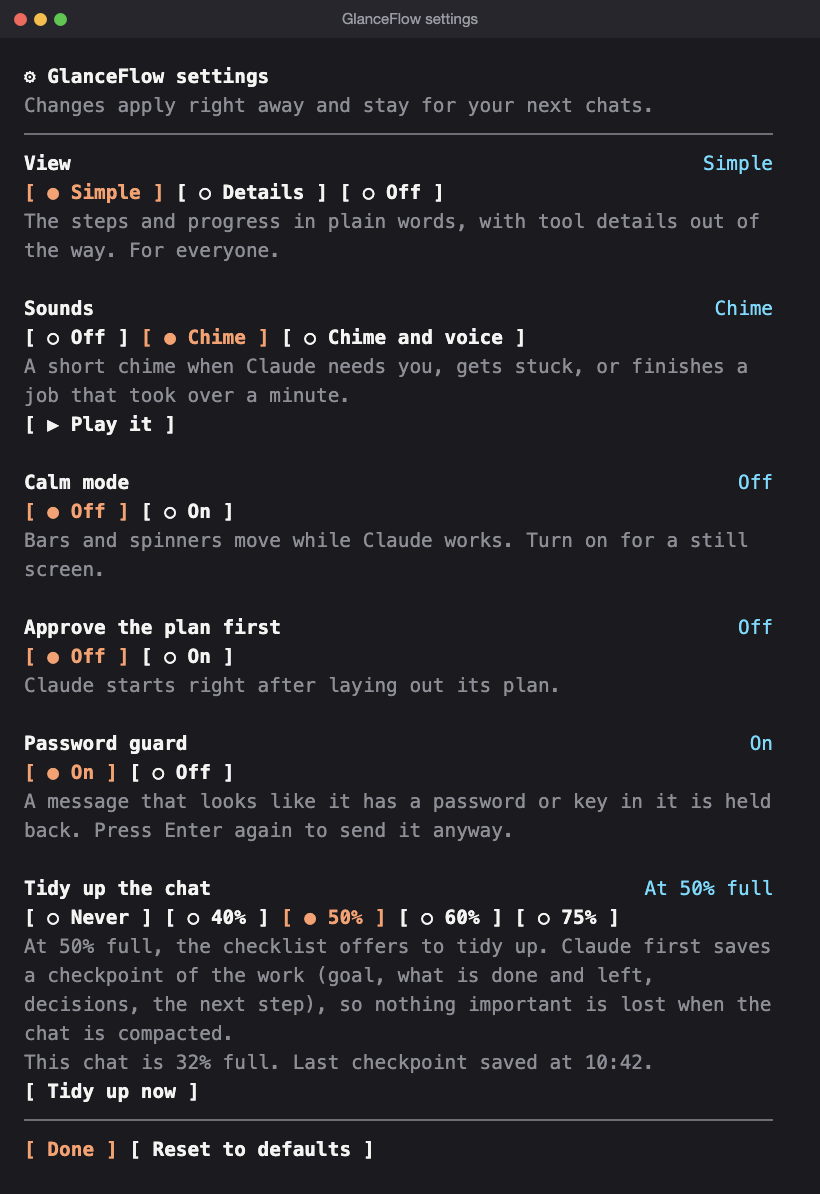
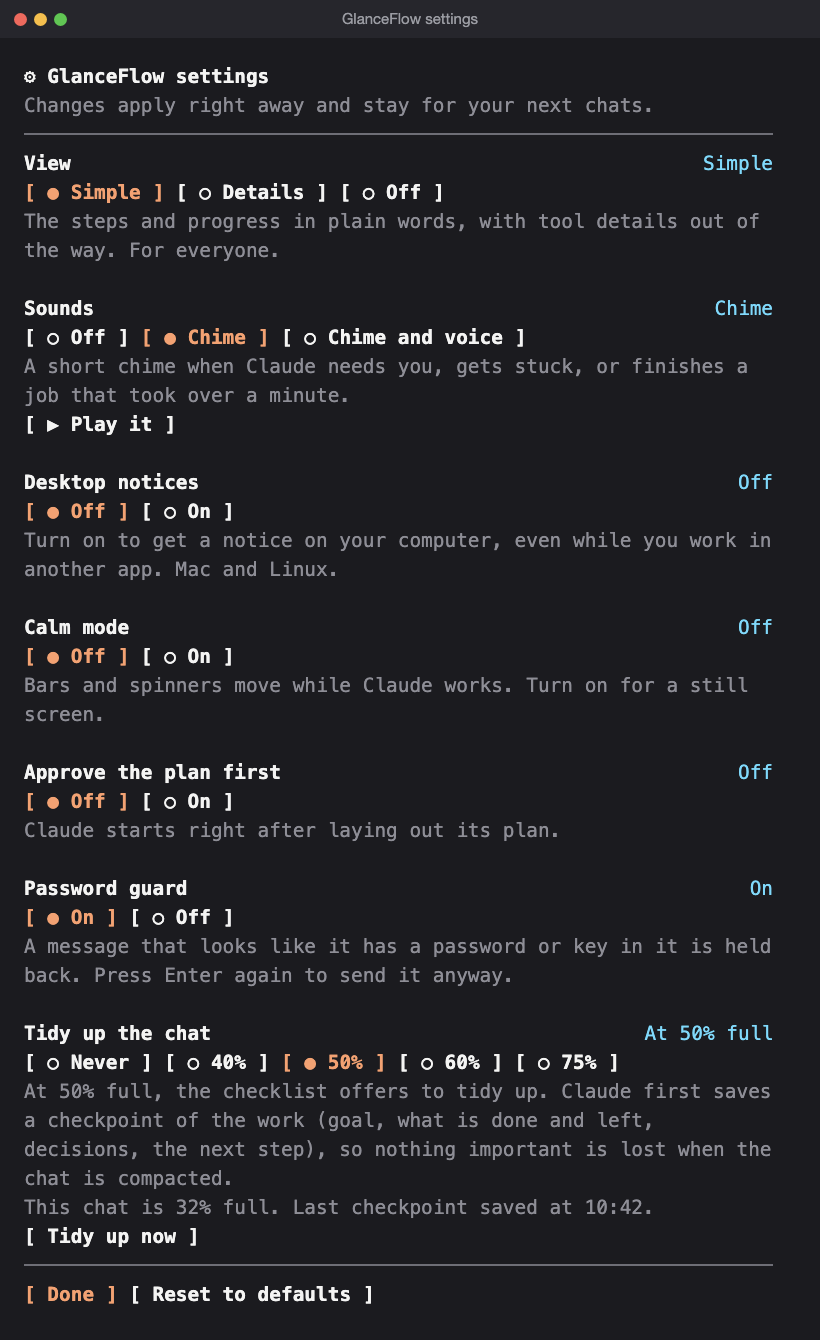
GlanceFlow 0.14.0: desktop notices when Claude needs you
An optional notice from the computer itself (macOS, Linux) when Claude
needs you, gets stuck, or finishes a job that took over a minute, with
the reason in it. Off by default; turn it on in Settings or with
/glanceflow notify on.

diff --git a/glanceflow/hooks/glance.tsx b/glanceflow/hooks/glance.tsx
@@ -47,6 +47,7 @@ const SOUND_KEY = 'glanceSound'
 const CALM_KEY = 'glanceCalm'
 const GUARD_KEY = 'glanceGuard'
 const APPROVE_KEY = 'glanceApprove'
+const NOTICE_KEY = 'glanceNotice'
 const HANDOFF_KEY = 'lastHandoff'
 const MAX_NAME = 40
 // Below this width the mode button drops the name; below METER_MIN_COLUMNS the bars go, so step names keep their room.
@@ -90,6 +91,7 @@ const soundAtom = atom({ plugin: 'glanceflow', key: 'soundMode' } as const, 'off
 const calmAtom = atom({ plugin: 'glanceflow', key: 'isCalm' } as const, false)
 const guardAtom = atom({ plugin: 'glanceflow', key: 'isGuarded' } as const, true)
 const approveAtom = atom({ plugin: 'glanceflow', key: 'approvePlan' } as const, false)
+const noticeAtom = atom({ plugin: 'glanceflow', key: 'isNoticing' } as const, false)
 const tidyAtAtom = atom({ plugin: 'glanceflow', key: 'tidyAt' } as const, TIDY_AT_DEFAULT)
 const checkpointAtom = atom({ plugin: 'glanceflow', key: 'checkpointAt' } as const, null)
 const historyAtom = atom({ plugin: 'glanceflow', key: 'historyView' } as const, null)
@@ -589,6 +591,29 @@ const ALERTS: Partial<Record<GlancePhase, { asset: string; words: string }>> = {
   done: { asset: 'sounds/done.wav', words: 'All done' },
 }
 
+/** A desktop notice through the computer's own notifications: macOS first, then Linux. The text goes in as arguments, never as script. */
+const showNotice = async ($: $, title: string, body: string) => {
+  const script = ['-e', 'on run argv', '-e', 'display notification (item 2 of argv) with title (item 1 of argv)', '-e', 'end run']
+  try {
+    await $.process.run(['osascript', ...script, title, body])
+  } catch {
+    // No osascript: not a Mac. notify-send is Linux's; elsewhere the band still shows it.
+    await $.process.run(['notify-send', '--app-name=Claude Code', title, body]).catch(() => undefined)
+  }
+}
+
+/** What the notice says under its title: why Claude waits or is stuck, or the job's name. */
+const noticeBody = (list: GlanceChecklist) =>
+  (list.phase === 'needsYou' ? list.needsYouReason : list.phase === 'stuck' ? list.stuckReason : null) ?? list.title
+
+/** A desktop notice when Claude needs you, gets stuck or finishes a long job, as for the sounds. */
+const noticeFor = async ($: $, list: GlanceChecklist) => {
+  const alert = ALERTS[list.phase]
+  if (!alert || !(await read($, noticeAtom)) || !(await read($, enabledAtom))) return
+  if (list.phase === 'done' && (isBusy(list) || (list.finishedAt ?? (await now($))) - list.startedAt < LONG_JOB_MS)) return
+  await showNotice($, alert.words, noticeBody(list))
+}
+
 /** A short sound (and, in voice mode, a few words) when Claude needs you, gets stuck or finishes a long job. */
 const alertFor = async ($: $, list: GlanceChecklist) => {
   const alert = ALERTS[list.phase]
@@ -613,7 +638,10 @@ const change = async ($: $, fn: (list: GlanceChecklist) => GlanceChecklist | nul
     return changed ? { ...changed, tasks: stampTimes(changed.tasks, at) } : changed
   })
   syncTicker($, next)
-  if (next !== null && next.phase !== before.phase) void alertFor($, next)
+  if (next !== null && next.phase !== before.phase) {
+    void alertFor($, next)
+    void noticeFor($, next)
+  }
 
   return next
 }
@@ -1029,6 +1057,13 @@ const setCalm = async ($: $, isOn: boolean) => {
   syncTicker($, await read($, checklistAtom))
 }
 
+/** Desktop notices: on shows one when Claude needs you, gets stuck or finishes a long job. A sample shows at once. */
+const setNotice = async ($: $, isOn: boolean) => {
+  await update($, noticeAtom, () => isOn)
+  await $.store.set(NOTICE_KEY, isOn)
+  if (isOn) void showNotice($, 'Claude needs you', 'This is how GlanceFlow will tell you.')
+}
+
 /** The password guard: on holds back a message that looks like it has a password or key in it. */
 const setGuard = async ($: $, isOn: boolean) => {
   await update($, guardAtom, () => isOn)
@@ -1067,10 +1102,11 @@ const alertSample = async ($: $, mode: 'off' | 'chime' | 'voice') => {
   if (mode === 'voice') await $.audio.speak('Claude needs you').catch(() => undefined)
 }
 
-/** Back to how GlanceFlow starts: Simple, no sounds, calm off, password guard on, no plan approval, tidy up at 50%. */
+/** Back to how GlanceFlow starts: Simple, no sounds or notices, calm off, password guard on, no plan approval, tidy up at 50%. */
 const resetSettings = async ($: $) => {
   await setView($, 'simple')
   await setSound($, 'off')
+  await setNotice($, false)
   await setCalm($, false)
   await setGuard($, true)
   await setApprove($, false)
@@ -1114,7 +1150,7 @@ const adoptGlanceStore = async ($: $) => {
   try {
     const config = (await $.env.get('CLAUDE_CONFIG_DIR')) ?? `${await $.env.get('HOME')}/.claude`
     const dir = `${config}/plugins/store`
-    const settings = new Set([STORE_KEY, DETAIL_KEY, SOUND_KEY, CALM_KEY, GUARD_KEY, APPROVE_KEY])
+    const settings = new Set([STORE_KEY, DETAIL_KEY, SOUND_KEY, CALM_KEY, GUARD_KEY, APPROVE_KEY, NOTICE_KEY])
     const mine = new Set(await $.store.keys())
     for (const file of await $.fs.list(dir)) {
       if (!/^glance_.*\.json$/.test(file.name)) {
@@ -1155,6 +1191,8 @@ export function registerGlance(on: On): void {
     await update($, guardAtom, () => isGuarded)
     const approves = (await $.store.get(APPROVE_KEY)) === true
     await update($, approveAtom, () => approves)
+    const isNoticing = (await $.store.get(NOTICE_KEY)) === true
+    await update($, noticeAtom, () => isNoticing)
     const tidyAt = await $.store.get(TIDY_KEY)
     await update($, tidyAtAtom, () => (typeof tidyAt === 'number' ? tidyAt : TIDY_AT_DEFAULT))
     const saved = (await $.store.get(CHECKPOINT_KEY)) as { sessionId?: string; at?: number } | undefined
@@ -1206,7 +1244,7 @@ export function registerGlance(on: On): void {
     await $.command.register({
       name: 'glanceflow',
       description:
-        'GlanceFlow: /glanceflow on|off, details on|off, sound on|voice|off, calm on|off, guard on|off, approve on|off, pause, continue, plan, settings, tidy [at N|off], history [yesterday|YYYY-MM-DD], handoff',
+        'GlanceFlow: /glanceflow on|off, details on|off, sound on|voice|off, notify on|off, calm on|off, guard on|off, approve on|off, pause, continue, plan, settings, tidy [at N|off], history [yesterday|YYYY-MM-DD], handoff',
     })
     // A reload drops the module's timers; pick the animation back up.
     syncTicker($, await read($, checklistAtom))
@@ -1243,6 +1281,16 @@ export function registerGlance(on: On): void {
         text: isOn
           ? 'The password guard is on: a message that looks like it has a password or key in it is held back.'
           : 'The password guard is off: every message is sent as you write it.',
+      }
+    }
+    if (arg.startsWith('notify')) {
+      const choice = arg.slice('notify'.length).trim()
+      const isOn = choice === 'on' ? true : choice === 'off' ? false : !(await read($, noticeAtom))
+      await setNotice($, isOn)
+      return {
+        text: isOn
+          ? 'Desktop notices are on: your computer tells you when Claude needs you, gets stuck or finishes a long job.'
+          : 'Desktop notices are off.',
       }
     }
     if (arg.startsWith('approve')) {
@@ -1785,6 +1833,7 @@ export function registerGlance(on: On): void {
     const view = !isEnabled ? 'off' : await read($, detailAtom)
     const sound = await read($, soundAtom)
     const isCalm = await read($, calmAtom)
+    const isNoticing = await read($, noticeAtom)
     const isGuarded = await read($, guardAtom)
     const approves = await read($, approveAtom)
     const tidyAt = await read($, tidyAtAtom)
@@ -1860,6 +1909,15 @@ export function registerGlance(on: On): void {
               <Button key="sound-test" label="▶ Play it" onPress={() => alertSample($, sound)} />
             </Box>
           ),
+        )}
+        {group(
+          'notice',
+          'Desktop notices',
+          isNoticing ? 'On' : 'Off',
+          choice('notice', [['off', 'Off'], ['on', 'On']], isNoticing ? 'on' : 'off', value => setNotice($, value === 'on')),
+          isNoticing
+            ? 'A notice on your computer when Claude needs you, gets stuck, or finishes a job that took over a minute.'
+            : 'Turn on to get a notice on your computer, even while you work in another app. Mac and Linux.',
         )}
         {group(
           'calm',

diff --git a/glanceflow/tests/glance.test.ts b/glanceflow/tests/glance.test.ts
@@ -1209,6 +1209,52 @@ test('voice mode also says it in a few words', async ($, on) => {
   expect(heard).toEqual(['sounds/needs-you.wav', 'say: Claude needs you'])
 })
 
+test('desktop notices are off until turned on; then the computer says why Claude needs you', async ($, on) => {
+  const { clock, heard } = soundWorld(on)
+  const shown: string[][] = []
+  on('process.run', (_, e) => {
+    const argv = (e as { argv: readonly string[] }).argv
+    // Not a Mac here: osascript cannot start, so Linux's notify-send shows it.
+    if (argv[0] === 'osascript') throw new Error('osascript: not found')
+    shown.push([...argv.slice(-2)])
+    return { value: { exitCode: 0, stdout: '', stderr: '' } } as never
+  })
+  await $.turn.start({ text: 'Build my landing page', turnId: 't1' })
+  await callTool($, { tool: PLAN, steps: ['Write it', 'Check it', 'Ship it'] })
+  await $.classic.Notification({ message: 'Claude needs your permission', notification_type: 'permission_prompt' } as never)
+  await clock.advance(1)
+  expect(shown).toEqual([])
+
+  const result = await $.command.run({ command: 'glanceflow', args: 'notify on' } as never)
+  expect(result.text).toContain('Desktop notices are on')
+  await clock.advance(1)
+  expect(shown).toEqual([['Claude needs you', 'This is how GlanceFlow will tell you.']])
+  shown.length = 0
+
+  await callTool($, { tool: 'Bash', command: 'ls' })
+  await $.classic.Notification({ message: 'Claude needs your permission', notification_type: 'permission_prompt' } as never)
+  await clock.advance(1)
+  expect(shown).toHaveLength(1)
+  expect(shown[0][0]).toBe('Claude needs you')
+  expect(shown[0][1]).not.toBe('')
+  // Sounds stay off: a notice alone.
+  expect(heard).toEqual([])
+
+  await clock.advance(2 * 60_000)
+  await callTool($, { tool: PROGRESS, task: 'Ship it', percent: 100 })
+  await $.turn.complete({ answer: 'Done', durationMs: 1, isAborted: false, turnId: 't1', reason: 'answer' })
+  await clock.advance(1)
+  expect(shown.at(-1)?.[0]).toBe('All done')
+
+  await $.command.run({ command: 'glanceflow', args: 'notify off' } as never)
+  shown.length = 0
+  await $.turn.start({ text: 'Fix the footer', turnId: 't2' })
+  await callTool($, { tool: PLAN, steps: ['Fix it', 'Check it'] })
+  await $.classic.Notification({ message: 'Claude needs your permission', notification_type: 'permission_prompt' } as never)
+  await clock.advance(1)
+  expect(shown).toEqual([])
+})
+
 test('a finished job with helpers still running chimes only when they finish', async ($, on) => {
   const { clock, heard } = soundWorld(on)
   await $.command.run({ command: 'glanceflow', args: 'sound on' } as never)

diff --git a/glanceflow/types/index.d.ts b/glanceflow/types/index.d.ts
@@ -169,6 +169,8 @@ declare module 'claude-code' {
       handoffState: 'idle' | 'armed' | 'working'
       /** Alerts: `chime` plays a short sound when Claude needs you, gets stuck or finishes a long job; `voice` also says it. */
       soundMode: 'off' | 'chime' | 'voice'
+      /** Desktop notices: the computer's own notification when Claude needs you, gets stuck or finishes a long job. */
+      isNoticing: boolean
       /** Calm mode: nothing moves, and statuses read in bold. */
       isCalm: boolean
       /** Password guard: a message that looks like it holds a password or key is held back until sent twice. */

diff --git a/README.md b/README.md
@@ -56,6 +56,7 @@ The button above the prompt cycles **Simple → Details → Off**. The view and 
 - **What Claude is doing right now:** a quiet line under the current step says it in one whole sentence: Claude's own description when it fits, like `Now: Check the page on a phone screen`, otherwise a short phrase like `Reading files (3)` or `Running the tests`. No file names or commands.
 - **What each step got done:** when a step is checked off, Claude adds one plain-English line on what it did ("Added a pricing table with three plans"). It shows under the step until Claude moves on, and goes into the History and the Team report.
 - **Sounds, if you want them:** `/glanceflow sound on` plays a short chime when Claude needs you, gets stuck, or finishes a job that took over a minute, so you can look away. `/glanceflow sound voice` also says it ("Claude needs you"). Off by default (turn it on in ⚙ Settings); macOS only for now.
+- **Desktop notices, if you want them:** `/glanceflow notify on` shows a notice from your computer when Claude needs you, gets stuck, or finishes a job that took over a minute, with the reason in it. You see it even while you work in another app. Off by default (turn it on in ⚙ Settings); macOS and Linux.
 - **Calm mode:** `/glanceflow calm on` stops everything that moves (the sweeping bar, the helper spinners) and shows statuses in bold.
 - **Status at a glance:** every status says what is happening and, when Claude needs you, where to answer. Claude waiting for its own helpers is never **Needs you**.
 - **Helpers and background work:** subagents and background tasks show under the step that started them. GlanceFlow doesn't say All done while they still run.
@@ -79,9 +80,9 @@ Under the checklist, **‖ Pause** stops Claude while it works, and **▶ Contin
 
 ## Settings
 
-**⚙ Settings** under the checklist (or `/glanceflow settings`) puts every choice in one panel. Each shows what is picked and a line on what that choice does: the view (Simple, Details or Off), sounds (with ▶ Play it to hear them), calm mode, whether to approve the plan first, the password guard, and when to tidy up the chat (never, or at 40, 50, 60 or 75% full), with a **Tidy up now** button. Changes apply right away and stay for your next chats.
+**⚙ Settings** under the checklist (or `/glanceflow settings`) puts every choice in one panel. Each shows what is picked and a line on what that choice does: the view (Simple, Details or Off), sounds (with ▶ Play it to hear them), desktop notices, calm mode, whether to approve the plan first, the password guard, and when to tidy up the chat (never, or at 40, 50, 60 or 75% full), with a **Tidy up now** button. Changes apply right away and stay for your next chats.
 
-![The settings panel: view, sounds, calm mode, password guard and when to tidy up](docs/glanceflow-settings.png)
+![The settings panel: view, sounds, desktop notices, calm mode, plan approval, password guard and when to tidy up](docs/glanceflow-settings.png)
 
 ## History for a retro
 
@@ -113,12 +114,13 @@ In the panel, **◀ Earlier**, the day drop-down, **Later ▶** and **Today** mo
 | `/glanceflow history yesterday`, `/glanceflow history 2026-10-06` | Shows another day |
 | `/glanceflow pause`, `/glanceflow continue` | Pauses Claude, or picks the job up again |
 | `/glanceflow plan` | Opens the whole plan in a side panel |
-| `/glanceflow settings` | Opens the settings: view, sounds, calm mode, plan approval, password guard and when to tidy up |
+| `/glanceflow settings` | Opens the settings: view, sounds, desktop notices, calm mode, plan approval, password guard and when to tidy up |
 | `/glanceflow tidy` | Saves a checkpoint, then tidies up the chat |
 | `/glanceflow tidy at 60`, `/glanceflow tidy off` | When the checklist offers to tidy up |
 | `/glanceflow handoff` | Starts a fresh chat from a handoff note |
 | `/glanceflow handoff note` | Puts the last handoff note in the prompt box |
 | `/glanceflow sound on`, `/glanceflow sound voice`, `/glanceflow sound off` | A chime (and words) when Claude needs you, gets stuck or finishes a long job |
+| `/glanceflow notify on`, `/glanceflow notify off` | A notice from your computer when Claude needs you, gets stuck or finishes a long job |
 | `/glanceflow calm on`, `/glanceflow calm off` | Nothing moves; statuses in bold |
 | `/glanceflow guard on`, `/glanceflow guard off` | Turns the password guard on or off |
 | `/glanceflow approve on`, `/glanceflow approve off` | Claude waits for ▶ Start before it works, or starts right away |
